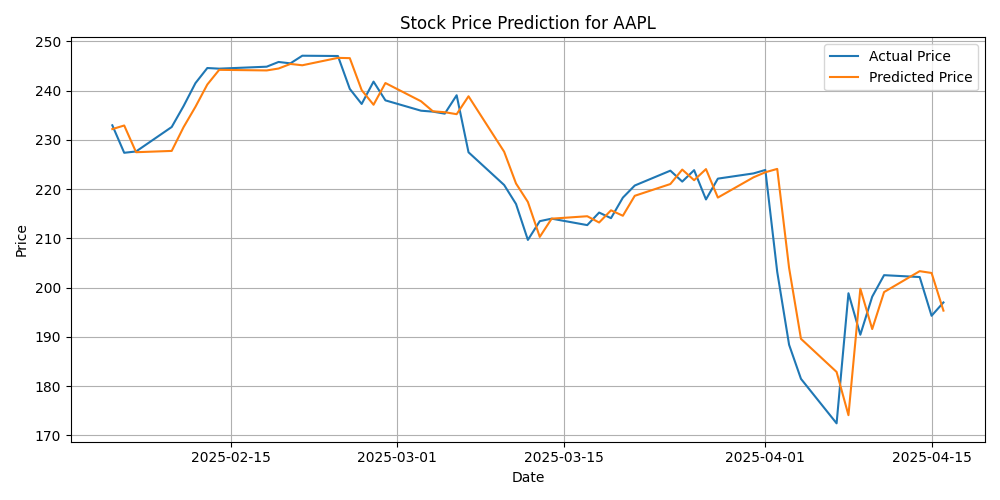
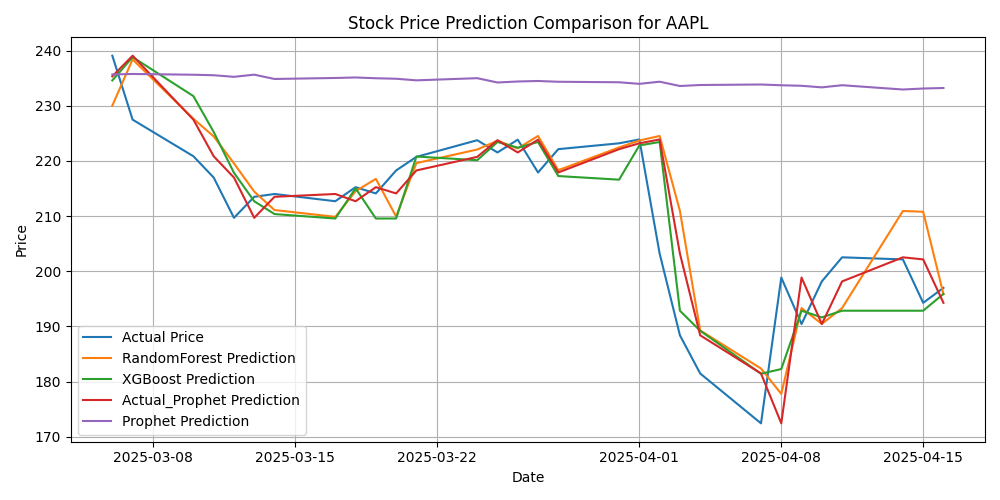
Clean structure: add final model + plots + script

diff --git a/ml_model.py b/ml_model.py
@@ -1,8 +1,13 @@
+# 📦 Required installations:
+# pip install yfinance pandas scikit-learn xgboost prophet matplotlib
+
 import yfinance as yf
 import pandas as pd
-from sklearn.linear_model import LinearRegression
-from sklearn.model_selection import train_test_split
-from sklearn.metrics import mean_squared_error
+import numpy as np
+from sklearn.ensemble import RandomForestRegressor
+from xgboost import XGBRegressor
+from sklearn.preprocessing import MinMaxScaler
+from prophet import Prophet
 
 def prepare_data(ticker, period="1y"):
     df = yf.download(ticker, period=period)
@@ -11,16 +16,55 @@ def prepare_data(ticker, period="1y"):
     df.dropna(inplace=True)
     return df
 
-def train_and_predict(df):
-    X = df[["Close"]].values
+def predict_random_forest(X_train, y_train, X_test):
+    model = RandomForestRegressor(n_estimators=100, random_state=42)
+    model.fit(X_train, y_train)
+    return model.predict(X_test)
+
+def predict_xgboost(X_train, y_train, X_test):
+    model = XGBRegressor(n_estimators=100, random_state=42, verbosity=0)
+    model.fit(X_train, y_train)
+    return model.predict(X_test)
+
+def predict_prophet(df):
+    df_prophet = df[['Close']].reset_index()
+    df_prophet.columns = ['ds', 'y']
+
+    m = Prophet()
+    m.fit(df_prophet[:-30])
+    future = m.make_future_dataframe(periods=30)
+    forecast = m.predict(future)
+
+    y_true = df_prophet['y'][-30:].values
+    y_pred = forecast['yhat'][-30:].values
+
+    return df_prophet['ds'][-30:].values, y_true, y_pred
+
+def train_and_predict_all(df):
+    scaler = MinMaxScaler()
+    X = scaler.fit_transform(df[["Close"]].values)
     y = df["Target"].values
 
-    X_train, X_test, y_train, y_test = train_test_split(X, y, test_size=0.2, shuffle=False)
-    model = LinearRegression()
-    model.fit(X_train, y_train)
+    train_size = int(len(X) * 0.8)
+    X_train, X_test = X[:train_size], X[train_size:]
+    y_train, y_test = y[:train_size], y[train_size:]
+    dates = df.index[-len(X_test):]
 
-    predictions = model.predict(X_test)
-    mse = mean_squared_error(y_test, predictions)
-    print(f"Mean Squared Error: {mse:.2f}")
+    rf_preds = predict_random_forest(X_train, y_train, X_test)
+    xgb_preds = predict_xgboost(X_train, y_train, X_test)
+    prophet_dates, prophet_actual, prophet_preds = predict_prophet(df)
 
-    return df.index[-len(X_test):], y_test, predictions
+    result_df = pd.DataFrame({
+        "Date": dates,
+        "Actual": y_test,
+        "RandomForest": rf_preds,
+        "XGBoost": xgb_preds
+    }).set_index("Date")
+
+    prophet_df = pd.DataFrame({
+        "Date": prophet_dates,
+        "Actual_Prophet": prophet_actual,
+        "Prophet": prophet_preds
+    }).set_index("Date")
+
+    return result_df.join(prophet_df, how='outer')

diff --git a/main.py b/main.py
@@ -1,15 +1,38 @@
-from ml_model import prepare_data, train_and_predict
-
+from ml_model import prepare_data, train_and_predict_all
 from plot import plot_predictions
-
-def run_model_for_ticker(ticker):
+import pandas as pd
+def main():
+    ticker = "AAPL"
     df = prepare_data(ticker)
-    dates, actual, predicted = train_and_predict(df)
-    plot_predictions(dates, actual, predicted, ticker)
+
+    if df.empty:
+        print(f"No data found for {ticker}")
+        return
+
+    # Run all models
+    results = train_and_predict_all(df)
+
+    # Extract actual and prediction columns
+    actual = results["Actual"].dropna()
+    predictions = {col: results[col].dropna() for col in results.columns if col != "Actual"}
+
+    # Align all predictions to the common date range
+    aligned_index = actual.index
+    for col in predictions:
+        aligned_index = aligned_index.intersection(predictions[col].index)
+
+    actual = actual.loc[aligned_index]
+    aligned_predictions = {name: preds.loc[aligned_index] for name, preds in predictions.items()}
+
+    # Plot and save the results
+    plot_predictions(aligned_index, actual, aligned_predictions, ticker)
+
+    # Print the result table
+    print("\nPrediction Comparison Table:")
+    comparison_df = pd.DataFrame({"Actual": actual})
+    for name, preds in aligned_predictions.items():
+        comparison_df[name] = preds
+    print(comparison_df.round(2))
 
 if __name__ == "__main__":
-    tickers = ["AAPL", "GOOGL", "MSFT"]  # Add any tickers here
-
-    for ticker in tickers:
-        print(f"\n--- Processing {ticker} ---")
-        run_model_for_ticker(ticker)
+    main()

diff --git a/plot.py b/plot.py
@@ -1,20 +1,33 @@
 import matplotlib.pyplot as plt
 import os
 
-def plot_predictions(dates, actual, predicted, ticker):
+def plot_predictions(dates, actual, predictions_dict, ticker):
+    """
+    Plots actual vs predicted stock prices from multiple models.
+
+    Parameters:
+    - dates: pandas.DatetimeIndex
+    - actual: pandas.Series of actual prices
+    - predictions_dict: dict where keys are model names and values are pandas.Series of predicted prices
+    - ticker: string used in plot title and file name
+    """
     plt.figure(figsize=(10, 5))
     plt.plot(dates, actual, label="Actual Price")
-    plt.plot(dates, predicted, label="Predicted Price")
-    plt.title(f"Stock Price Prediction for {ticker}")
+
+    for model_name, predicted in predictions_dict.items():
+        if len(predicted) == len(dates):
+            plt.plot(dates, predicted, label=f"{model_name} Prediction")
+
+    plt.title(f"Stock Price Prediction Comparison for {ticker}")
     plt.xlabel("Date")
     plt.ylabel("Price")
     plt.legend()
     plt.grid(True)
     plt.tight_layout()
 
-    # Create plots folder if it doesn't exist
+    # Ensure the 'plots' directory exists
     os.makedirs("plots", exist_ok=True)
 
-    # Save the figure to the 'plots' folder
+    # Save the figure to file
     plt.savefig(f"plots/forecast_{ticker}.png")
     plt.show()
